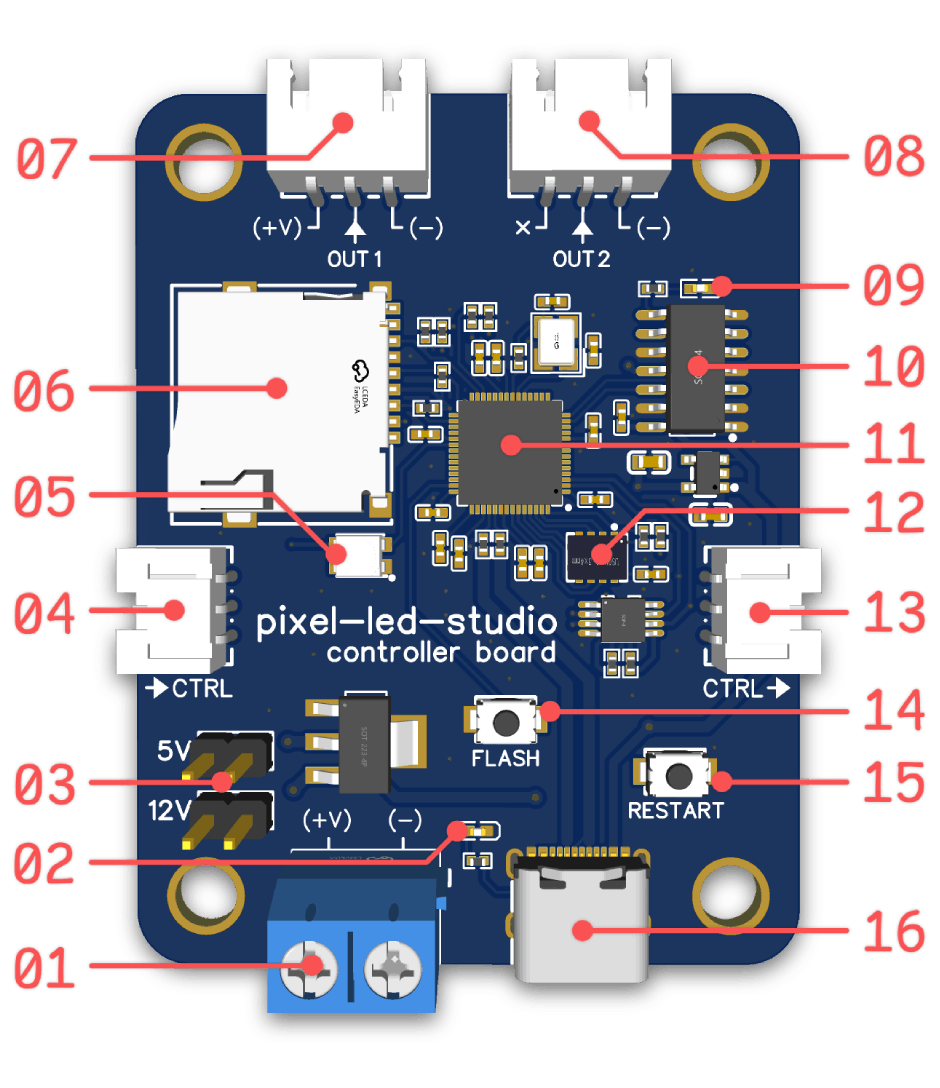
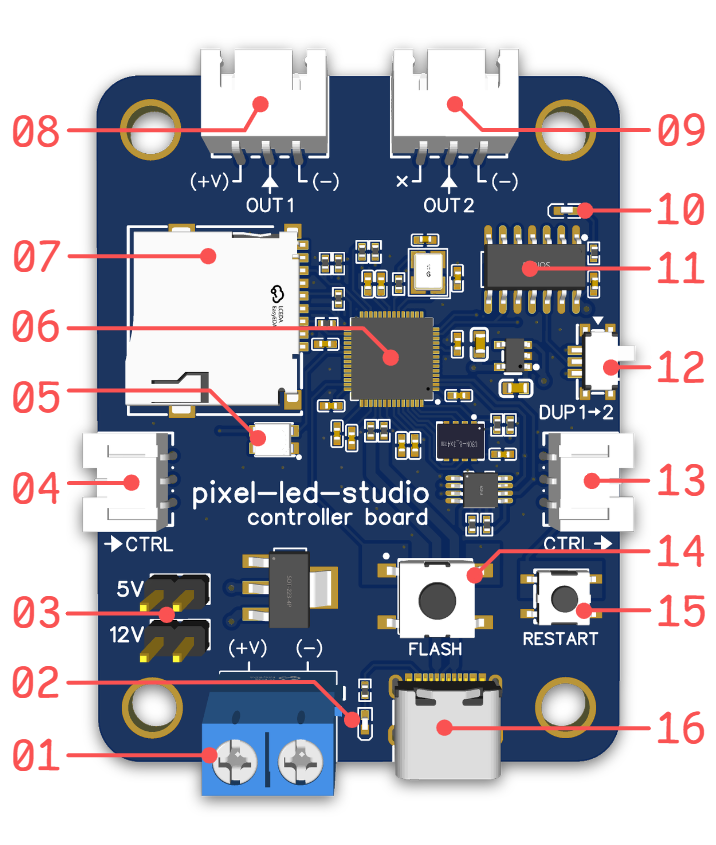
dssd

diff --git a/docs/index.html b/docs/index.html
@@ -163,11 +163,19 @@
           <div class="components-row">
             <div class="components-row-number">06</div>
             <div class="components-row-text">
-              -&nbsp;<a href="#component-tf-card-slot">TF-Card Slot</a>
+              -&nbsp;<a href="#component-rp2040-microcontroller"
+                >RP2040 Microcontroller</a
+              >
             </div>
           </div>
           <div class="components-row">
             <div class="components-row-number">07</div>
+            <div class="components-row-text">
+              -&nbsp;<a href="#component-tf-card-slot">TF-Card Slot</a>
+            </div>
+          </div>
+          <div class="components-row">
+            <div class="components-row-number">08</div>
             <div class="components-row-text">
               -&nbsp;<a href="#component-led-strip-out-1"
                 >LED Strip Out 1 + Power In</a
@@ -175,13 +183,13 @@
             </div>
           </div>
           <div class="components-row">
-            <div class="components-row-number">08</div>
+            <div class="components-row-number">09</div>
             <div class="components-row-text">
               -&nbsp;<a href="#component-led-strip-out-2">LED Strip Out 2</a>
             </div>
           </div>
           <div class="components-row">
-            <div class="components-row-number">09</div>
+            <div class="components-row-number">10</div>
             <div class="components-row-text">
               -&nbsp;<a href="#component-signal-out-indicator"
                 >Signal Out Indicator</a
@@ -189,7 +197,7 @@
             </div>
           </div>
           <div class="components-row">
-            <div class="components-row-number">10</div>
+            <div class="components-row-number">11</div>
             <div class="components-row-text">
               -&nbsp;<a href="#component-signal-converter"
                 >3.3V to 5v Signal Converter</a
@@ -197,17 +205,9 @@
             </div>
           </div>
           <div class="components-row">
-            <div class="components-row-number">11</div>
-            <div class="components-row-text">
-              -&nbsp;<a href="#component-rp2040-microcontroller"
-                >RP2040 Microcontroller</a
-              >
-            </div>
-          </div>
-          <div class="components-row">
             <div class="components-row-number">12</div>
             <div class="components-row-text">
-              -&nbsp;<a href="#component-flash-memory">4MB Flash Memory</a>
+              -&nbsp;<a href="#component-duplicate-out-toggle-switch">Duplicate Out Toggle Switch</a>
             </div>
           </div>
           <div class="components-row">
@@ -248,7 +248,7 @@
               <div class="content-with-image">
                 <img
                   class="content-with-image-img"
-                  src="./images/main-power-connector.png"
+                  src="./images/parts/main-power-connector.jpg"
                 />
                 <div class="content-with-image-text">
                   Controller Board එක ක්රියාත්මක වීමට අවශ්ය විදුළි සැපයුම මෙම Connector එක හරහා ලබා දිය හැක. 
@@ -269,7 +269,7 @@
               <div class="content-with-image">
                 <img
                   class="content-with-image-img"
-                  src="./images/power indicator.png"
+                  src="./images/parts/power indicator.jpg"
                 />
                 <div class="content-with-image-text">
                   Controller Board එකට අවශ්ය පරිදි විදුළි සැපයුමක් ලැබී ඇති බව මෙම LED එක මගින් පෙන්වයි
@@ -286,7 +286,7 @@
               <div class="content-with-image">
                 <img
                   class="content-with-image-img"
-                  src="./images/power-select-jumpers.png"
+                  src="./images/parts/power-select-jumpers.jpg"
                 />
                 <div class="content-with-image-text">
                   මෙම Headrs හරහා යොදා ඇති Jumper එක මගින් Board එකට ලැබෙන 
@@ -305,10 +305,13 @@
               <div class="content-with-image">
                 <img
                   class="content-with-image-img"
-                  src="./images/master control in.png"
+                  src="./images/parts/master control in.jpg"
                 />
                 <div class="content-with-image-text">
-                  This is the main power connecter of the board
+                  Slave Mode එකෙන් ක්රියාත්මක වන Board එකකට ක්රියාත්මක වීමට අවශ්ය
+                  Controlling Signal ලබාගැනීම සඳහා මෙම Connector එක භාවිතා වේ.
+                  මෙම Connector එකට ලැබන Signals ඒ ආකාරයෙන්ම <a href="#component-master-control-out">Master Control Out</a> Connector
+                  එක හරහා තවත් Slave Mode Board එකකට ලබා දිය හැක. 
                 </div>
               </div>
             </div>
@@ -322,92 +325,7 @@
               <div class="content-with-image">
                 <img
                   class="content-with-image-img"
-                  src="./images/mode-indicator.png"
-                />
-                <div class="content-with-image-text">
-                  This is the main power connecter of the board
-                </div>
-              </div>
-            </div>
-          </div>
-
-          <div id="component-tf-card-slot" class="h-sub-section">
-            <div class="h-section-title-4">
-              TF Card Slot
-            </div>
-            <div class="h-section-content">
-              <div class="content-with-image">
-                <img
-                  class="content-with-image-img"
-                  src="./images/tf-card-connector.png"
-                />
-                <div class="content-with-image-text">
-                  This is the main power connecter of the board
-                </div>
-              </div>
-            </div>
-          </div>
-
-          <div id="component-led-strip-out-1" class="h-sub-section">
-            <div class="h-section-title-4">
-              LED Strip Out 1 + Power In
-            </div>
-            <div class="h-section-content">
-              <div class="content-with-image">
-                <img
-                  class="content-with-image-img"
-                  src="./images/led-strip-out-1.png"
-                />
-                <div class="content-with-image-text">
-                  This is the main power connecter of the board
-                </div>
-              </div>
-            </div>
-          </div>
-
-          <div id="component-led-strip-out-2" class="h-sub-section">
-            <div class="h-section-title-4">
-              LED Strip Out 2
-            </div>
-            <div class="h-section-content">
-              <div class="content-with-image">
-                <img
-                  class="content-with-image-img"
-                  src="./images/led-strip-out-2.png"
-                />
-                <div class="content-with-image-text">
-                  This is the main power connecter of the board
-                </div>
-              </div>
-            </div>
-          </div>
-
-          <div id="component-signal-out-indicator" class="h-sub-section">
-            <div class="h-section-title-4">
-              Signal Out Indicator
-            </div>
-            <div class="h-section-content">
-              <div class="content-with-image">
-                <img
-                  class="content-with-image-img"
-                  src="./images/led-strip-out-indicator.png"
-                />
-                <div class="content-with-image-text">
-                  This is the main power connecter of the board
-                </div>
-              </div>
-            </div>
-          </div>
-
-          <div id="component-signal-converter" class="h-sub-section">
-            <div class="h-section-title-4">
-              3.3v to 5v Signal Converter
-            </div>
-            <div class="h-section-content">
-              <div class="content-with-image">
-                <img
-                  class="content-with-image-img"
-                  src="./images/level-shifter.png"
+                  src="./images/parts/mode-indicator.jpg"
                 />
                 <div class="content-with-image-text">
                   This is the main power connecter of the board
@@ -424,7 +342,7 @@
               <div class="content-with-image">
                 <img
                   class="content-with-image-img"
-                  src="./images/rp-2040-microcontroller.png"
+                  src="./images/parts/rp-2040-microcontroller.jpg"
                 />
                 <div class="content-with-image-text">
                   This is the main power connecter of the board
@@ -433,15 +351,102 @@
             </div>
           </div>
 
-          <div id="component-flash-memory" class="h-sub-section">
+          <div id="component-tf-card-slot" class="h-sub-section">
             <div class="h-section-title-4">
-              4MB Flash Memory
+              TF Card Slot
             </div>
             <div class="h-section-content">
               <div class="content-with-image">
                 <img
                   class="content-with-image-img"
-                  src="./images/4mb-flash.png"
+                  src="./images/parts/tf-card-connector.jpg"
+                />
+                <div class="content-with-image-text">
+                  This is the main power connecter of the board
+                </div>
+              </div>
+            </div>
+          </div>
+
+          <div id="component-led-strip-out-1" class="h-sub-section">
+            <div class="h-section-title-4">
+              LED Strip Out 1 + Power In
+            </div>
+            <div class="h-section-content">
+              <div class="content-with-image">
+                <img
+                  class="content-with-image-img"
+                  src="./images/parts/led-strip-out-1.jpg"
+                />
+                <div class="content-with-image-text">
+                  This is the main power connecter of the board
+                </div>
+              </div>
+            </div>
+          </div>
+
+          <div id="component-led-strip-out-2" class="h-sub-section">
+            <div class="h-section-title-4">
+              LED Strip Out 2
+            </div>
+            <div class="h-section-content">
+              <div class="content-with-image">
+                <img
+                  class="content-with-image-img"
+                  src="./images/parts/led-strip-out-2.jpg"
+                />
+                <div class="content-with-image-text">
+                  This is the main power connecter of the board
+                </div>
+              </div>
+            </div>
+          </div>
+
+          <div id="component-signal-out-indicator" class="h-sub-section">
+            <div class="h-section-title-4">
+              Signal Out Indicator
+            </div>
+            <div class="h-section-content">
+              <div class="content-with-image">
+                <img
+                  class="content-with-image-img"
+                  src="./images/parts/led-strip-out-indicator.jpg"
+                />
+                <div class="content-with-image-text">
+                  This is the main power connecter of the board
+                </div>
+              </div>
+            </div>
+          </div>
+
+          <div id="component-signal-converter" class="h-sub-section">
+            <div class="h-section-title-4">
+              3.3v to 5v Signal Converter
+            </div>
+            <div class="h-section-content">
+              <div class="content-with-image">
+                <img
+                  class="content-with-image-img"
+                  src="./images/parts/level-shifter.jpg"
+                />
+                <div class="content-with-image-text">
+                  This is the main power connecter of the board
+                </div>
+              </div>
+            </div>
+          </div>
+
+          
+
+          <div id="component-duplicate-out-toggle-switch" class="h-sub-section">
+            <div class="h-section-title-4">
+              Duplicate Out Toggle Switch
+            </div>
+            <div class="h-section-content">
+              <div class="content-with-image">
+                <img
+                  class="content-with-image-img"
+                  src="./images/parts/line-out-switch.jpg"
                 />
                 <div class="content-with-image-text">
                   This is the main power connecter of the board
@@ -458,7 +463,7 @@
               <div class="content-with-image">
                 <img
                   class="content-with-image-img"
-                  src="./images/master-control-out.png"
+                  src="./images/parts/master-control-out.jpg"
                 />
                 <div class="content-with-image-text">
                   This is the main power connecter of the board
@@ -476,7 +481,7 @@
               <div class="content-with-image">
                 <img
                   class="content-with-image-img"
-                  src="./images/flash-button.png"
+                  src="./images/parts/flash-button.jpg"
                 />
                 <div class="content-with-image-text">
                   This is the main power connecter of the board
@@ -493,7 +498,7 @@
               <div class="content-with-image">
                 <img
                   class="content-with-image-img"
-                  src="./images/restart-button.png"
+                  src="./images/parts/restart-button.jpg"
                 />
                 <div class="content-with-image-text">
                   This is the main power connecter of the board
@@ -510,7 +515,7 @@
               <div class="content-with-image">
                 <img
                   class="content-with-image-img"
-                  src="./images/type-c-connector.png"
+                  src="./images/parts/type-c-connector.jpg"
                 />
                 <div class="content-with-image-text">
                   This is the main power connecter of the board
